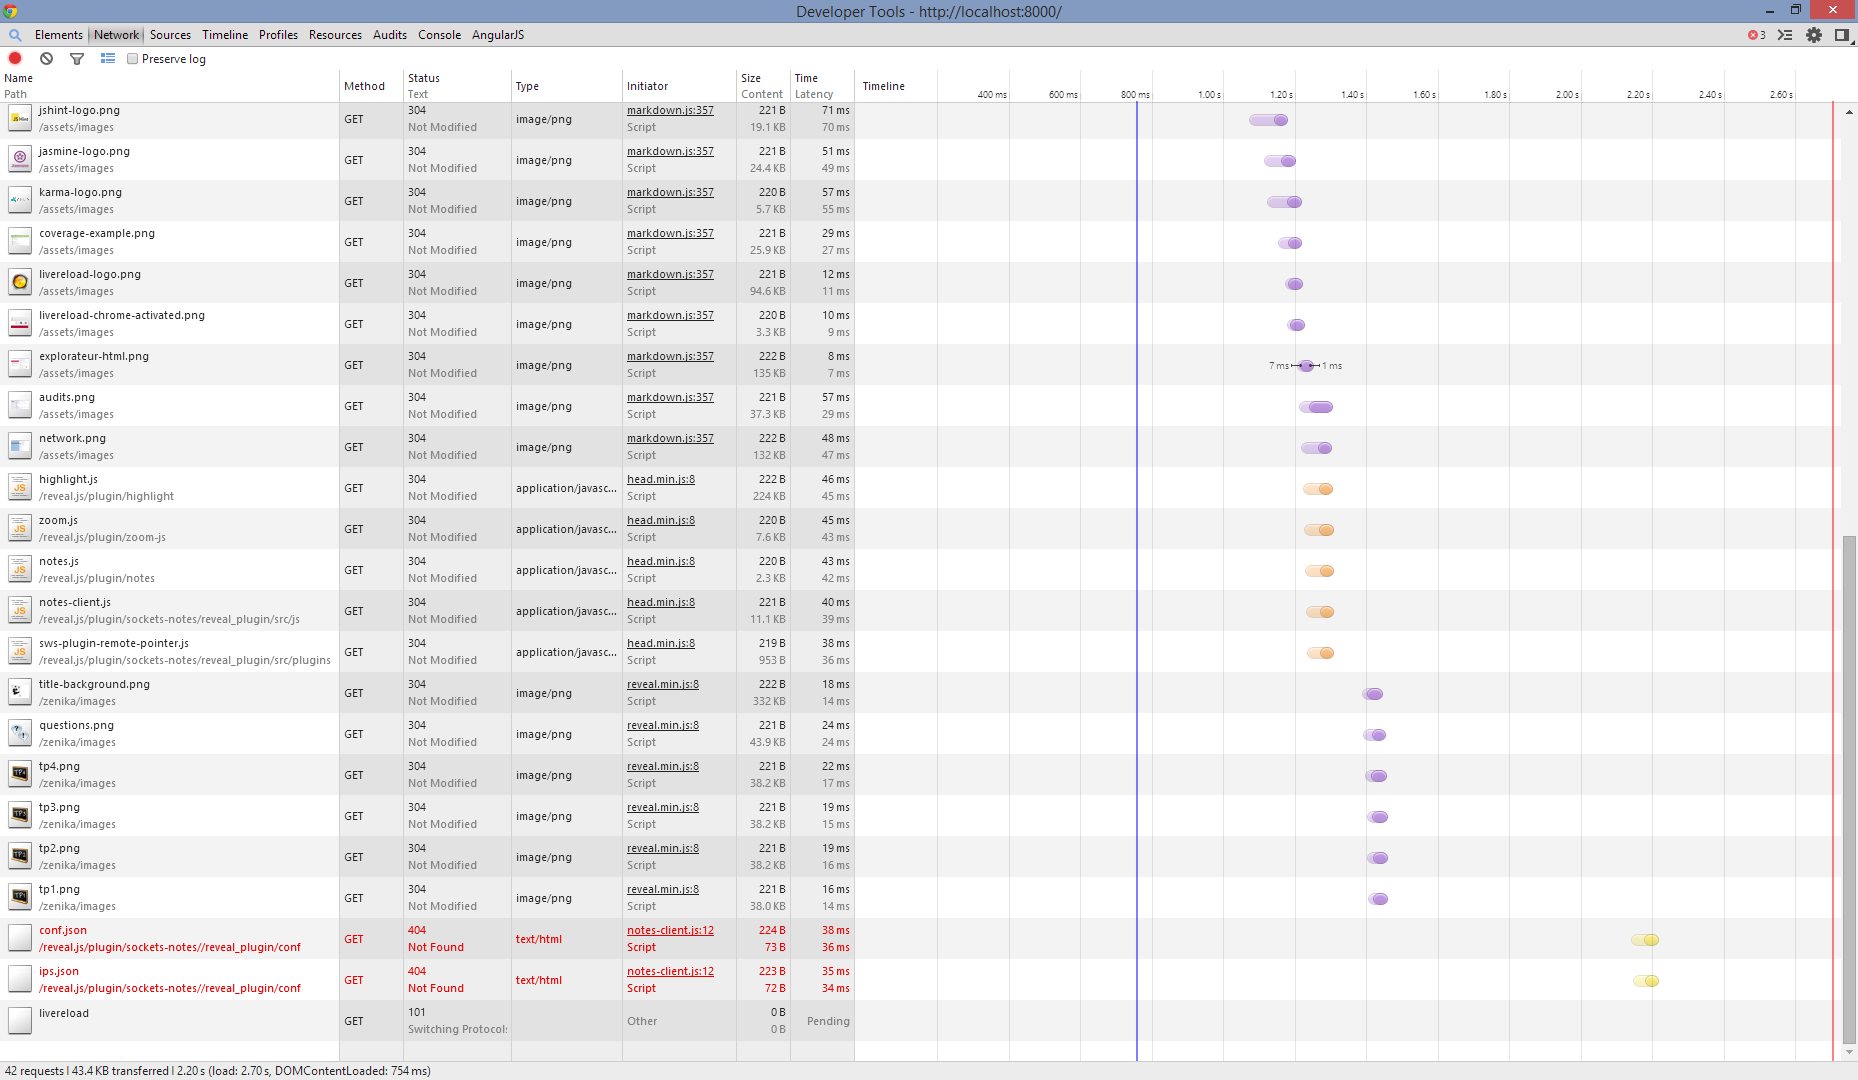
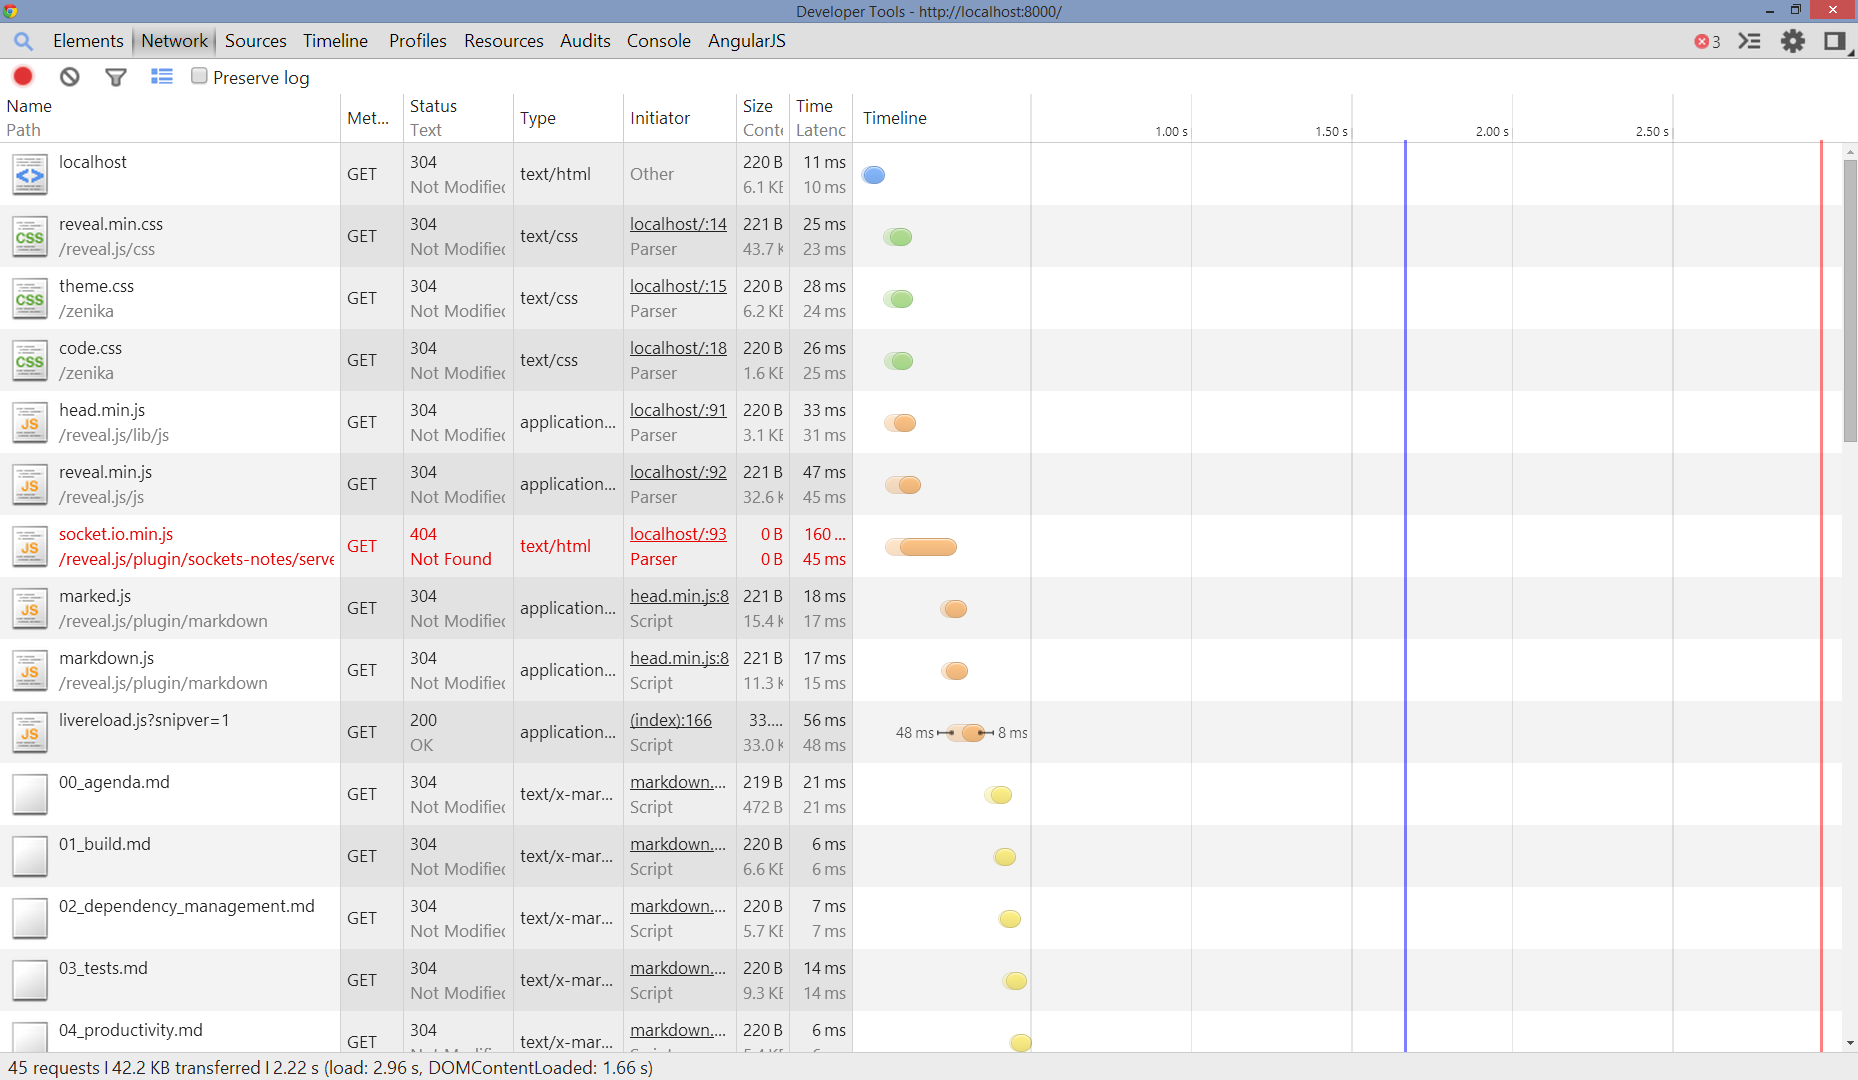
meilleur screenshot pour l'onglet Network

diff --git a/slides/06_debugging.md b/slides/06_debugging.md
@@ -100,10 +100,7 @@
 
 ## Surveillance du réseau dans Chrome 35
 
-![Surveillance du réseau](assets/images/network.png)
-
-
-
-## Surveillance du réseau dans Chrome 35
-
 ![Surveillance du réseau](assets/images/network_timeline.png)
+
+
+
